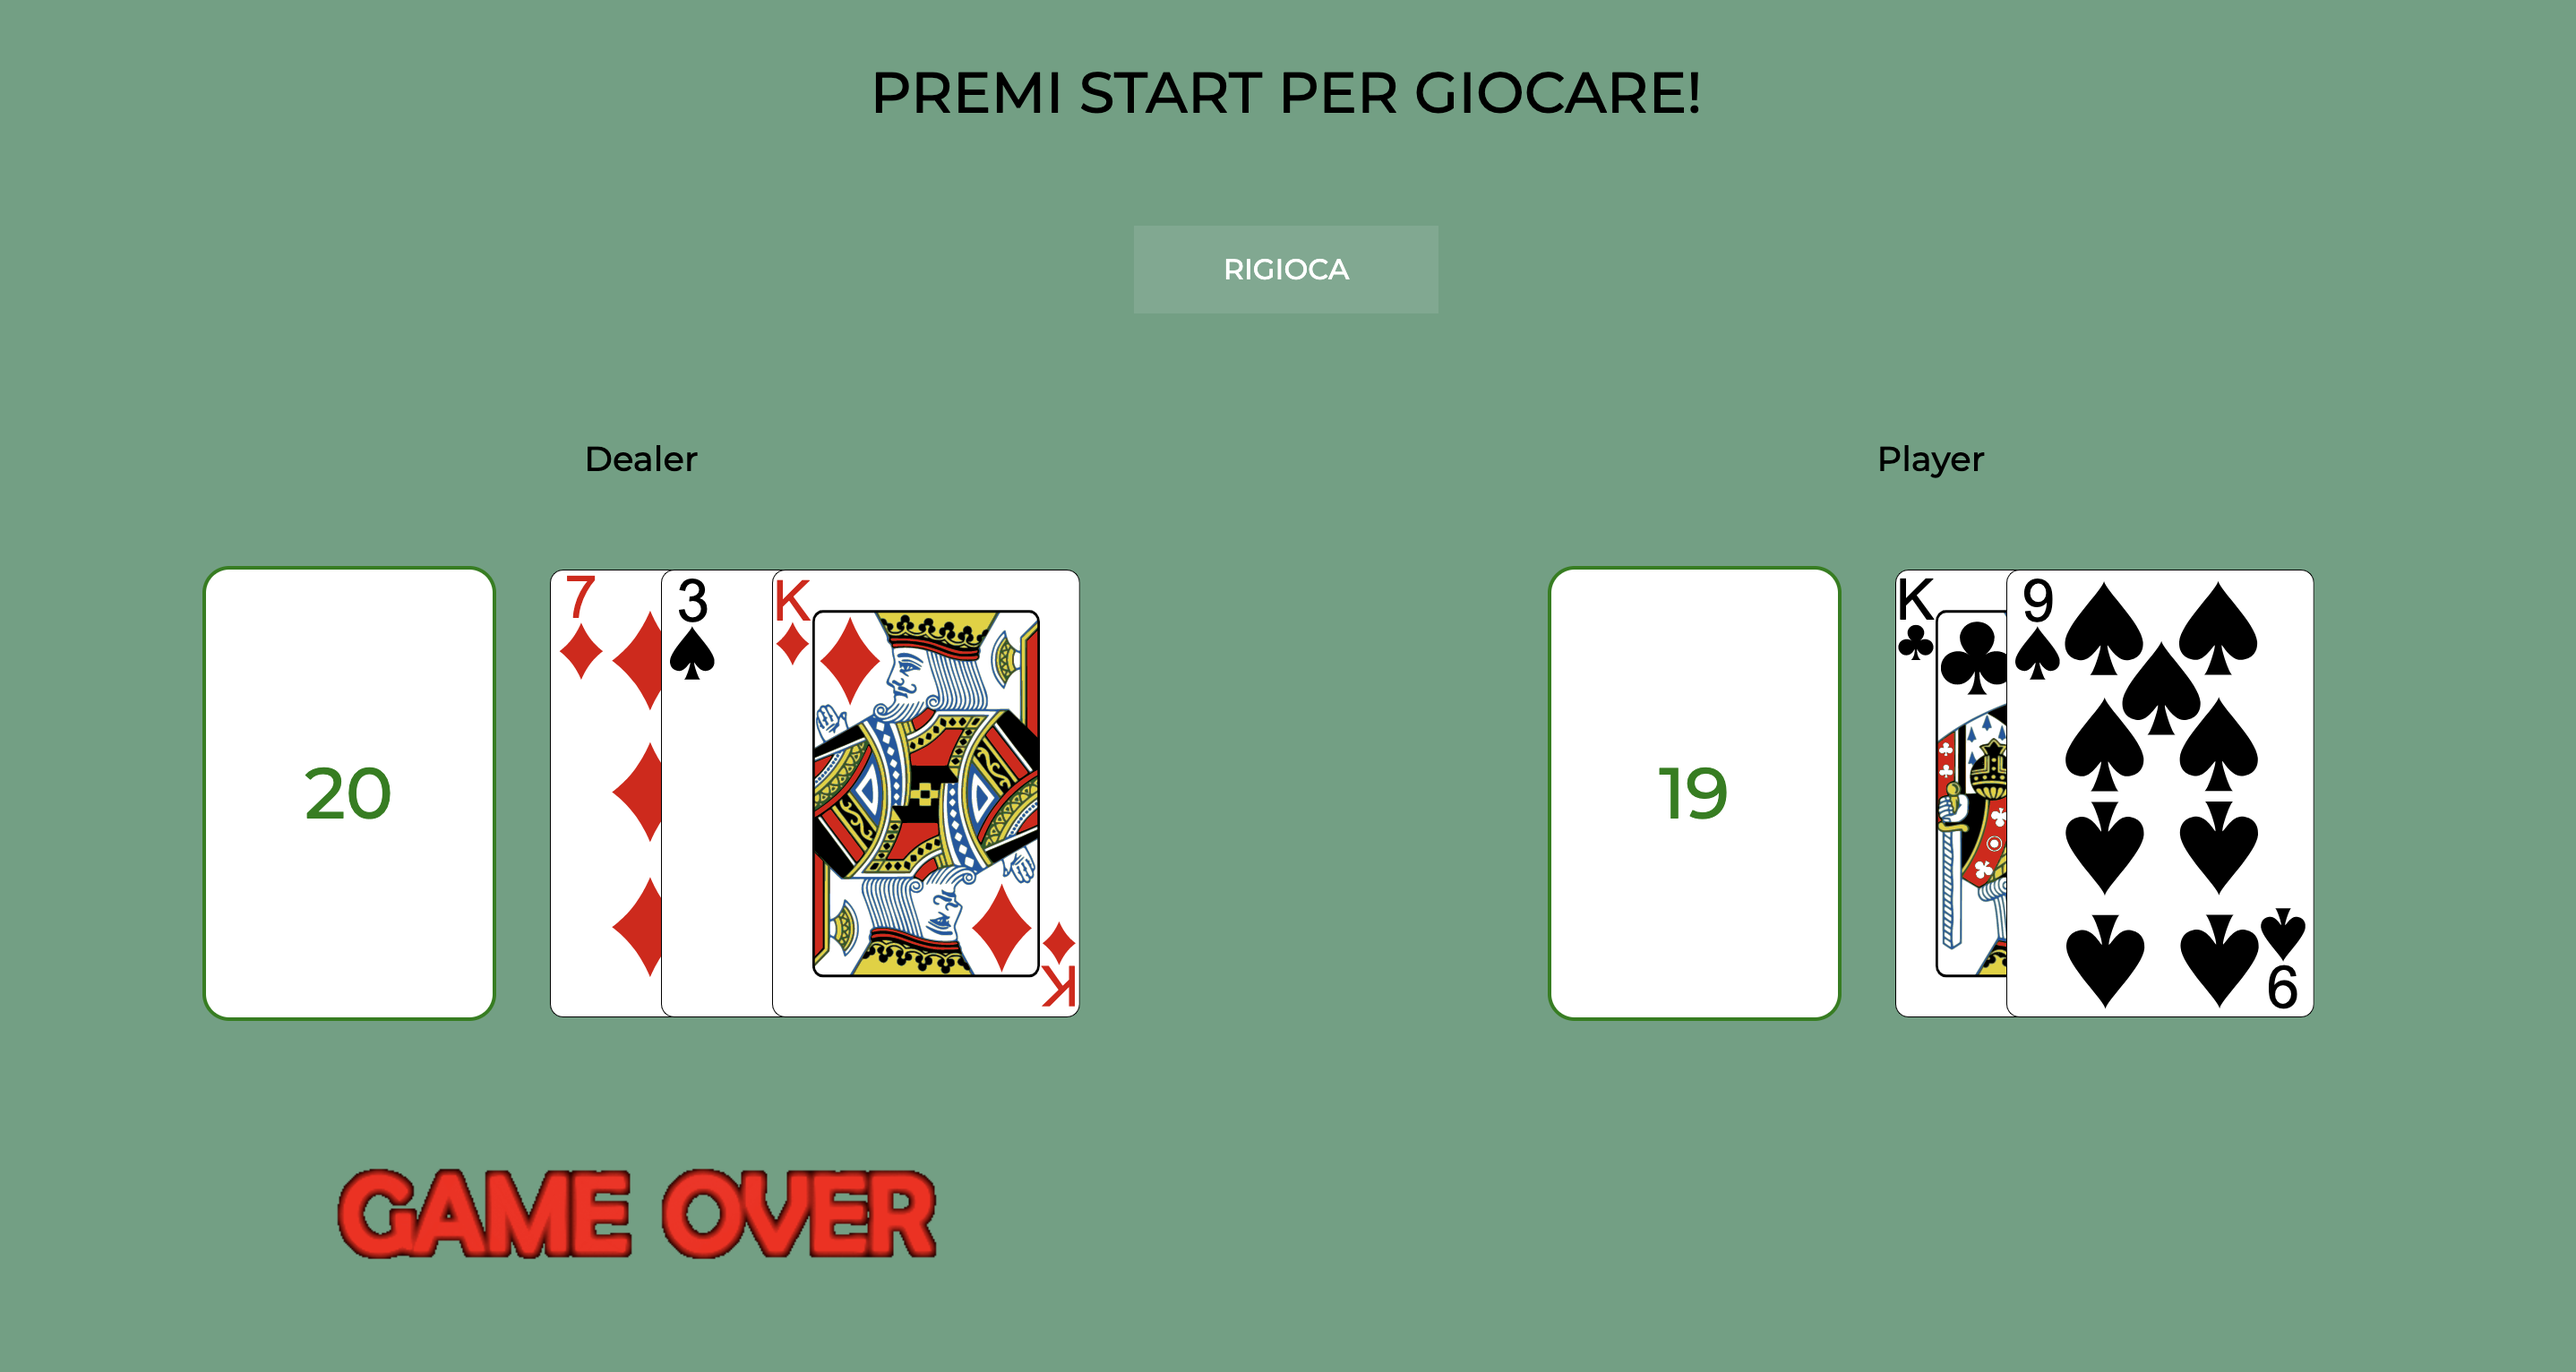
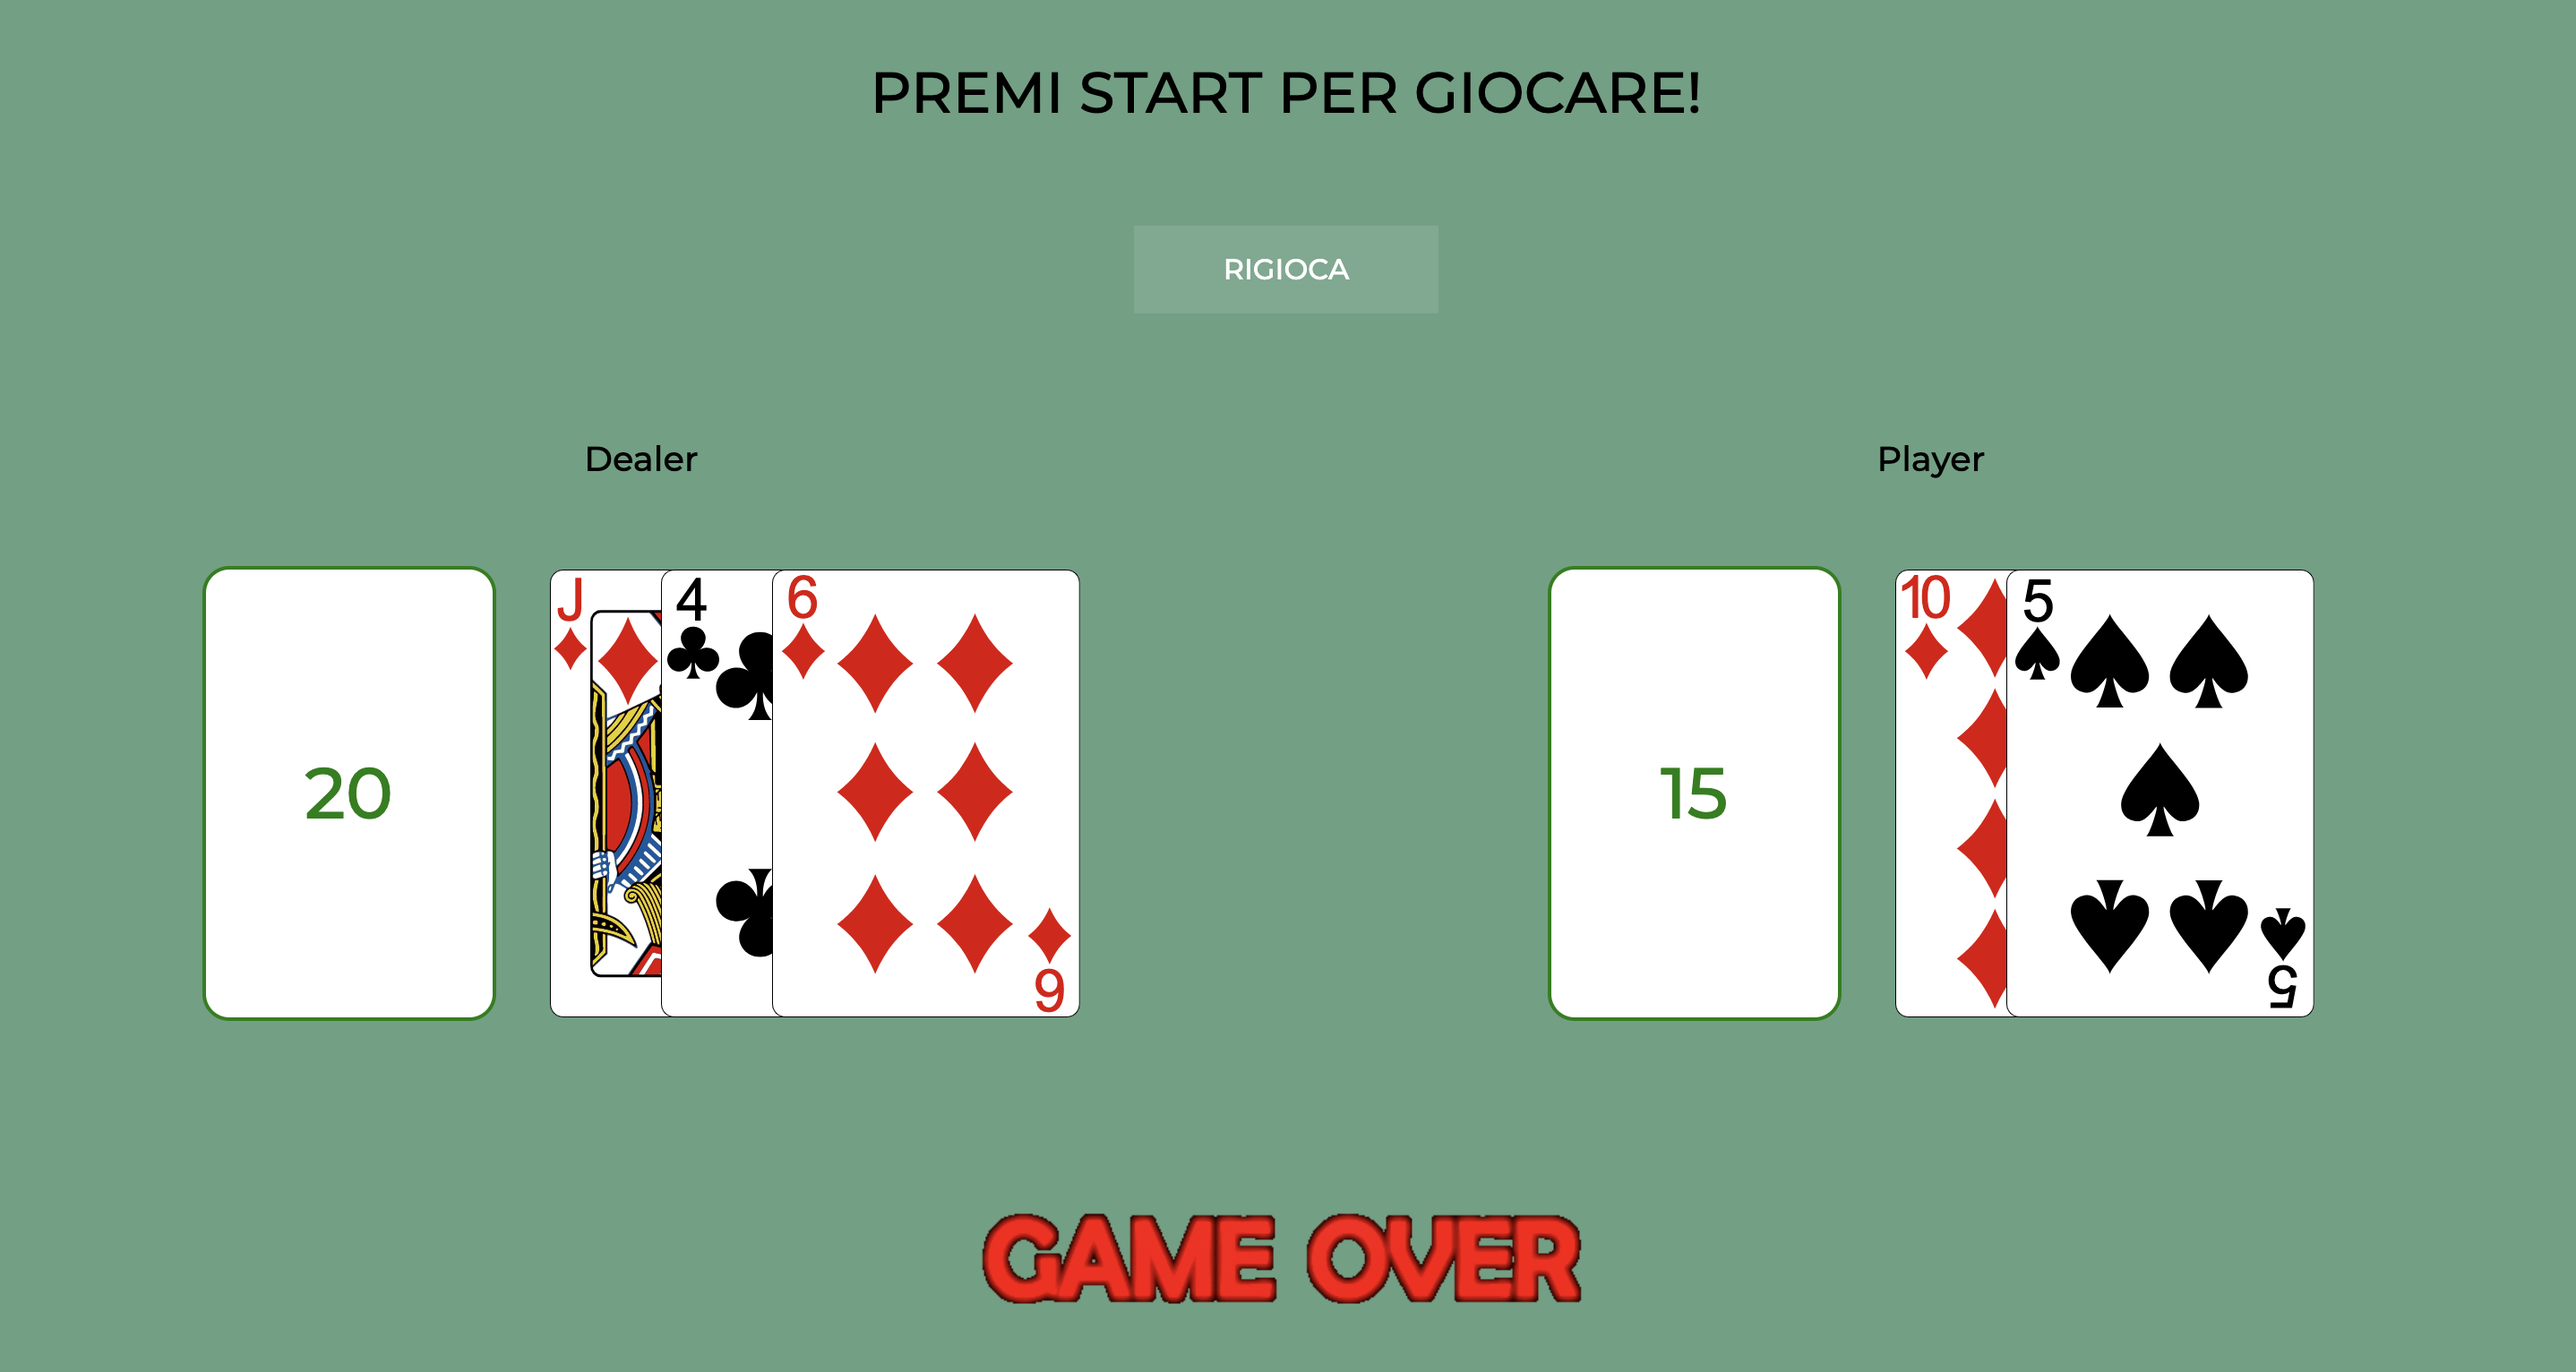
fix endgame

diff --git a/src/component/GameManager.js b/src/component/GameManager.js
@@ -1,5 +1,5 @@
 import Deck from "./Deck";
-import {setStyle} from "../utility/setStyle";
+import {initAbsolute, setCenterFlexLayout, setStyle} from "../utility/setStyle";
 import {createButton, disableButtons} from "./Button";
 import {CARD_VALUE_TO_NUMBER} from "../utility/const";
 import loseImg from "../assets/gif/lose.gif";
@@ -54,7 +54,6 @@ function GameManager() {
 
     function getContentElements() {
         buttonContent = document.getElementById('player-button-content');
-        resultGame = document.getElementById('blank-content');
         deckPlayer = document.getElementById('deck-player');
         deckDealer = document.getElementById('deck-dealer');
     }
@@ -182,19 +181,24 @@ function GameManager() {
 
     // -- END GAME --
     this.endgame = (loseOrWin) => {
-        const el = resultGame;
 
-        // creo la gif relativa al risultato
+        const containerResult = document.createElement('div');
+        initAbsolute(containerResult, ['left','bottom','right']);
+        setCenterFlexLayout(containerResult);
+
         const result = document.createElement('img');
         result.setAttribute('id', 'img-result');
         result.src = loseOrWin === 'lose' ? loseImg : winImg;
         result.style.height = '170px';
-        el.appendChild(result);
+        containerResult.appendChild(result);
 
         buttonHit.remove();
         buttonStop.remove();
 
-        const startButton = document.querySelector('#start-button');
+        const contentGame = buttonContent.parentNode;
+        contentGame.appendChild(containerResult);
+
+        const startButton = document.getElementById('start-button');
         startButton.childNodes[0].textContent = 'RIGIOCA';
     };
 }

diff --git a/src/component/Content.js b/src/component/Content.js
@@ -84,6 +84,6 @@ const styles = {
         gridTemplateRows: '1fr 1fr',
     
     }
-}
+};
 
 export default Content;
